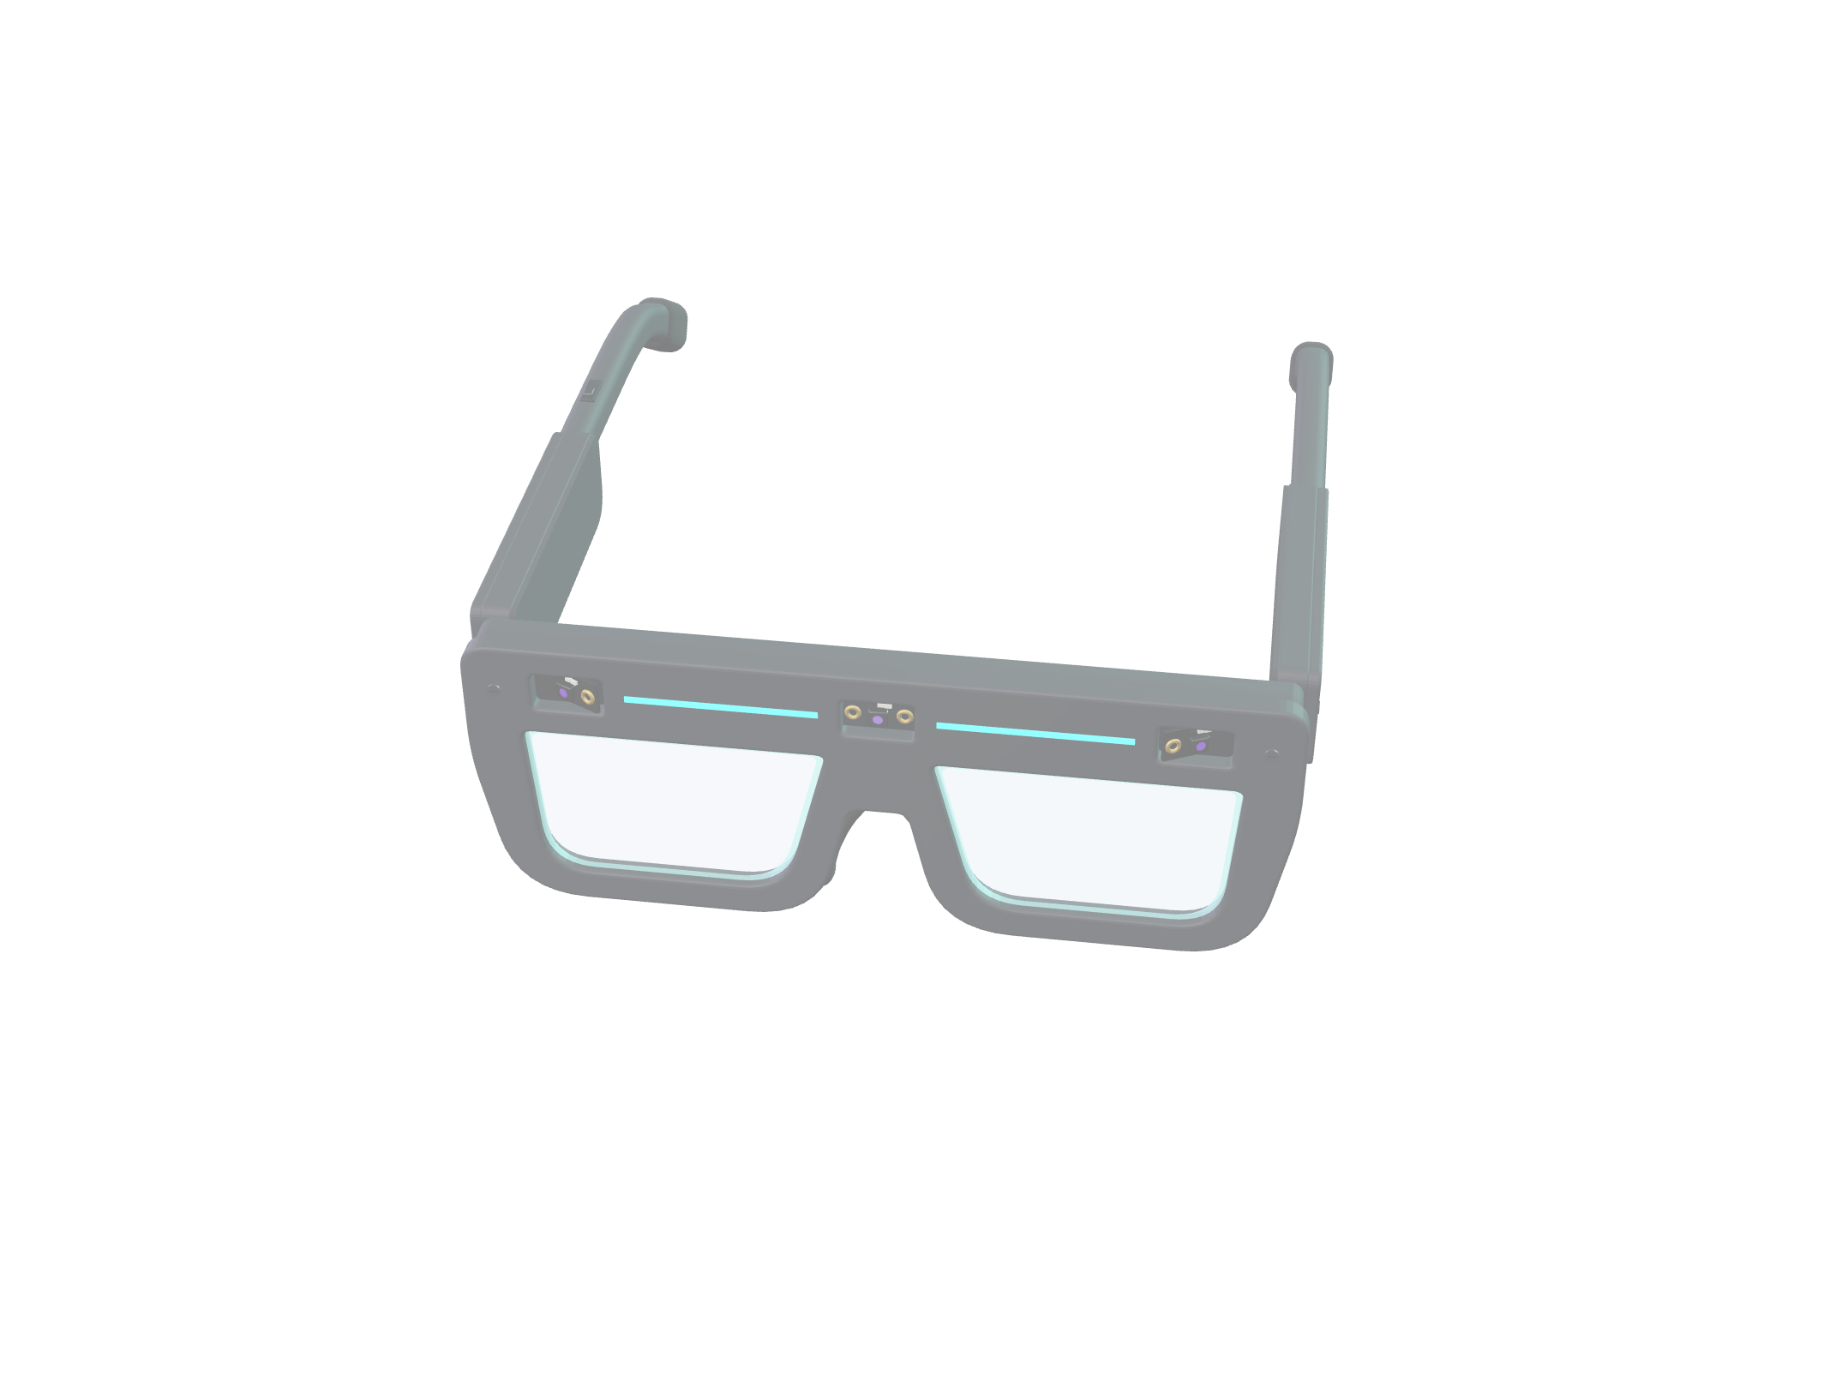
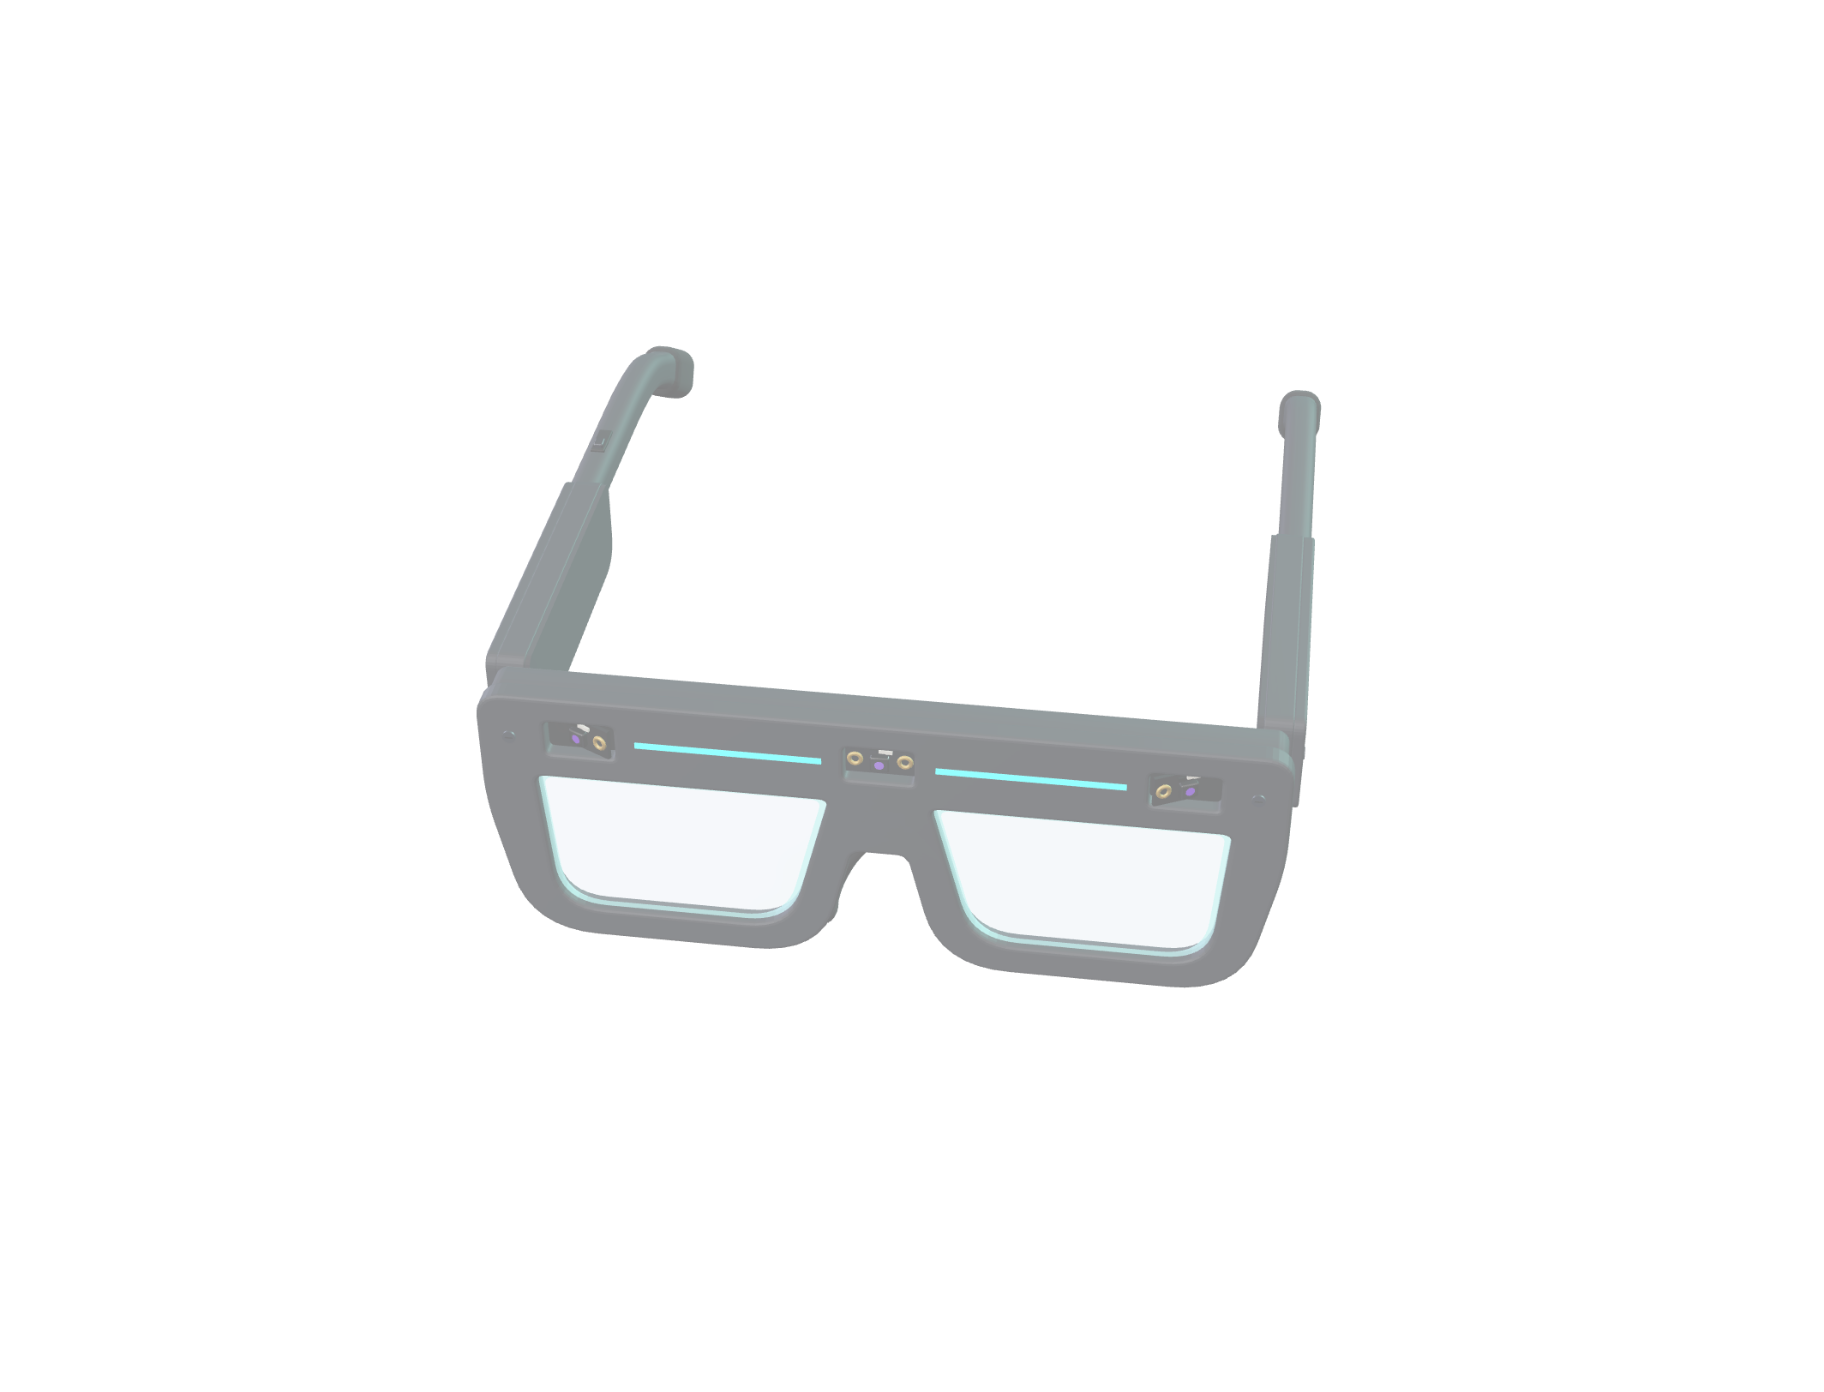
Exploded view: more space, one group at a time, smoother scroll
Parts travel further (covers lift above the boards, lenses and nose pad
drop below, sensors come forward) and come out in staggered windows:
sensors, then boards/battery/charger, then motors. Each label fades in
as its own part arrives; labels get more spacing; the Design track is
longer and the stage eases more gently. Stills regenerated.

Changed region(s): [[0.25, 0.2162, 0.75, 0.7105]]

diff --git a/src/three/deviceConfig.ts b/src/three/deviceConfig.ts
@@ -146,6 +146,8 @@ export interface ExplodeMove {
   stage: Stage;
   direction: V3; // normalised at runtime
   distance: number;
+  /** Optional slice of the stage (0..1) this move uses, so parts come out one group at a time. */
+  window?: [number, number];
 }
 
 export type PartKind =
@@ -208,7 +210,8 @@ function sensorPart(id: string, x: number, yawDeg: number, label: LabelId, side?
     side,
     position: [x, FRAME.barCenterY, FRAME.z + 0.012],
     quaternion: facing(look),
-    explode: [{ stage: "full", direction: [look[0], 0.12, look[2]], distance: 0.42 }],
+    // first out in the full stage: straight forward, a little down, into the space the lenses left
+    explode: [{ stage: "full", direction: [look[0], -0.22, look[2]], distance: 0.55, window: [0, 0.5] }],
     label,
     anchor: [0, 0, 0.018],
   };
@@ -227,7 +230,7 @@ function sideParts(s: Side): PartConfig[] {
       kind: "lens",
       side: s,
       position: [sg * LENS_CENTER[0], LENS_CENTER[1], FRAME.z + FRAME.plateDepth / 2],
-      explode: [{ stage: "half", direction: [sg * 0.14, -0.55, 1], distance: 0.58 }],
+      explode: [{ stage: "half", direction: [sg * 0.12, -0.95, 1], distance: 0.85, window: [0.15, 1] }],
       label: s === "left" ? "lenses" : undefined,
       anchor: [sg * 0.1, -0.09, 0.006],
     },
@@ -250,7 +253,8 @@ function sideParts(s: Side): PartConfig[] {
       kind: "templeCover",
       side: s,
       position: [sg * (TEMPLE.innerX + TEMPLE.wall + TEMPLE.rimDepth + 0.007), BOARD_V, TEMPLE.hingeZ - 0.31],
-      explode: [{ stage: "half", direction: [sg, 0.15, 0], distance: 0.64 }],
+      // covers lift up and out, above the boards, so they stay clear of the label columns
+      explode: [{ stage: "half", direction: [sg * 0.8, 1.2, 0], distance: 0.85, window: [0, 0.75] }],
     },
     {
       id: `earCap${L}`,
@@ -258,7 +262,7 @@ function sideParts(s: Side): PartConfig[] {
       side: s,
       position: p(tip.end.clone().addScaledVector(tip.dir, 0.05)),
       quaternion: facing(tipDir),
-      explode: [{ stage: "half", direction: tipDir, distance: 0.5 }],
+      explode: [{ stage: "half", direction: tipDir, distance: 0.7, window: [0.25, 1] }],
     },
     {
       id: `motor${L}`,
@@ -267,7 +271,7 @@ function sideParts(s: Side): PartConfig[] {
       position: p(tip.end.clone().addScaledVector(tip.dir, 0.065)),
       // the flat face of the coin motor presses towards the head, behind the ear
       quaternion: facing(inward),
-      explode: [{ stage: "full", direction: tipDir, distance: 0.27 }],
+      explode: [{ stage: "full", direction: tipDir, distance: 0.42, window: [0.5, 1] }],
       turn: { stage: "full", faceTo: FACE_UP },
       label: s === "left" ? "motorLeft" : "motorRight",
       anchor: [0, 0, 0.013],
@@ -275,8 +279,8 @@ function sideParts(s: Side): PartConfig[] {
   ];
 }
 
-/** Boards come out sideways, between the temple and its cover. */
-const OUT_UP = (s: Side): V3 => [sideSign(s), 0.3, 0];
+/** Boards come out sideways and up, between the temple and its lifted cover. */
+const OUT_UP = (s: Side): V3 => [sideSign(s), 0.7, 0];
 
 /** Left temple: controller next to the hinge, then the two motor driver boards. */
 const leftTemple: PartConfig[] = [
@@ -286,7 +290,7 @@ const leftTemple: PartConfig[] = [
     side: "left",
     position: inBay("left", 0.145, BOARD_V, 0.004 + 0.006),
     quaternion: facing([1, 0, 0]),
-    explode: [{ stage: "full", direction: OUT_UP("left"), distance: 0.36 }],
+    explode: [{ stage: "full", direction: OUT_UP("left"), distance: 0.5, window: [0.2, 0.7] }],
     turn: { stage: "full", faceTo: FACE_UP },
     label: "controller",
     // front half of the board (local −x points forward on the left side)
@@ -298,7 +302,7 @@ const leftTemple: PartConfig[] = [
     side: "left",
     position: inBay("left", 0.33, BOARD_V, 0.004 + 0.005),
     quaternion: facing([1, 0, 0]),
-    explode: [{ stage: "full", direction: OUT_UP("left"), distance: 0.36 }],
+    explode: [{ stage: "full", direction: OUT_UP("left"), distance: 0.5, window: [0.3, 0.8] }],
     turn: { stage: "full", faceTo: FACE_UP },
   },
   {
@@ -307,7 +311,7 @@ const leftTemple: PartConfig[] = [
     side: "left",
     position: inBay("left", 0.455, BOARD_V, 0.004 + 0.005),
     quaternion: facing([1, 0, 0]),
-    explode: [{ stage: "full", direction: OUT_UP("left"), distance: 0.36 }],
+    explode: [{ stage: "full", direction: OUT_UP("left"), distance: 0.5, window: [0.35, 0.85] }],
     turn: { stage: "full", faceTo: FACE_UP },
     // the label sits on the rear board so its marker stays clear of the controller's
     label: "drivers",
@@ -323,7 +327,7 @@ const rightTemple: PartConfig[] = [
     side: "right",
     position: inBay("right", 0.17, BOARD_V, 0.002 + 0.0175),
     quaternion: facing([-1, 0, 0]),
-    explode: [{ stage: "full", direction: OUT_UP("right"), distance: 0.36 }],
+    explode: [{ stage: "full", direction: OUT_UP("right"), distance: 0.5, window: [0.2, 0.7] }],
     turn: { stage: "full", faceTo: FACE_UP },
     label: "battery",
     // front half of the pouch (local +x points forward on the right side)
@@ -335,7 +339,7 @@ const rightTemple: PartConfig[] = [
     side: "right",
     position: inBay("right", 0.45, BOARD_V, 0.004 + 0.005),
     quaternion: facing([-1, 0, 0]),
-    explode: [{ stage: "full", direction: OUT_UP("right"), distance: 0.36 }],
+    explode: [{ stage: "full", direction: OUT_UP("right"), distance: 0.5, window: [0.3, 0.8] }],
     turn: { stage: "full", faceTo: FACE_UP },
     label: "charger",
     anchor: [-0.02, 0, 0.012],
@@ -366,7 +370,7 @@ export const PARTS: PartConfig[] = [
     id: "nosePad",
     kind: "nosePad",
     position: [0, -0.055, FRAME.z - 0.03],
-    explode: [{ stage: "half", direction: [0, -0.8, 0.6], distance: 0.5 }],
+    explode: [{ stage: "half", direction: [0, -1, 0.55], distance: 0.8, window: [0.2, 1] }],
   },
   sensorPart("sensorFront", 0, 0, "tofFront"),
   ...sideParts("left"),

diff --git a/src/three/PersistentStage.tsx b/src/three/PersistentStage.tsx
@@ -14,7 +14,7 @@ import { Obstacles } from "./effects/Obstacles";
 import { ProblemProps } from "./effects/ProblemProps";
 import { SignalDots } from "./effects/SignalDots";
 import { OrbitRings } from "./effects/OrbitRings";
-import { LABELLED_PARTS } from "./explode";
+import { LABELLED_PARTS, partArrival } from "./explode";
 import { smooth } from "./geometry";
 import { layoutCallouts, projectToScreen, type ScreenAnchor } from "./labelProjection";
 import { FOCUS_PARTS, mix, pageTimeline, type DeviceState, type SectionRange } from "./pageTimeline";
@@ -79,7 +79,7 @@ function placeCamera(camera: THREE.PerspectiveCamera, s: DeviceState, rect: Rect
   const dH = s.size / (2 * tanV * (rect.h / vh) * FILL);
   const dW = s.size / (2 * tanV * (vw / vh) * (rect.w / vw) * FILL);
   // tall, narrow slots (phones): let the widest unlabelled parts touch the edges
-  const d = Math.max(dH, rect.w / rect.h < 0.75 ? dW * 0.8 : dW);
+  const d = Math.max(dH, rect.w / rect.h < 0.75 ? dW * 0.7 : dW);
   target.set(...s.target);
   camera.position.set(
     target.x + Math.sin(s.azimuth) * Math.cos(s.elevation) * d,
@@ -114,6 +114,16 @@ function writeLabels(
   for (const part of LABELLED_PARTS) {
     const g = parts.get(part.id);
     if (!g) continue;
+    // each label fades in as its own part arrives, so the eye follows one group at a time
+    const item = h.items.get(part.label as LabelId);
+    if (item) {
+      const v = smooth((partArrival(part, s.explode) - 0.55) / 0.35).toFixed(3);
+      if (item.label.style.opacity !== v) {
+        item.label.style.opacity = v;
+        item.line.style.opacity = v;
+        item.dot.style.opacity = v;
+      }
+    }
     world.set(...((part.anchor ?? [0, 0, 0]) as [number, number, number]));
     g.localToWorld(world);
     const sp = projectToScreen(world, camera, vw, vh);
@@ -135,7 +145,7 @@ function writeLabels(
     heights.set(a.id, el?.offsetHeight ?? 0);
   }
   const c = projectToScreen(target, camera, vw, vh);
-  const layout = layoutCallouts(anchors, box.w, box.h, c.x - box.x, { gap: 36, margin: 12, top: 28, bottom: 64 }, heights);
+  const layout = layoutCallouts(anchors, box.w, box.h, c.x - box.x, { gap: 46, margin: 12, top: 36, bottom: 76 }, heights, 16);
   for (const a of anchors) {
     const item = h.items.get(a.id);
     const l = layout.get(a.id);
@@ -229,7 +239,7 @@ function Director({ compact, onReady }: { compact: boolean; onReady: () => void 
     const goal = pageTimeline(p, m.ranges, (0.35 * m.vh) / m.max);
     // ease towards the scroll state so fast scrolling still looks smooth
     const prev = live.current;
-    const s = { ...(prev ? mix(prev, goal, 1 - Math.exp(-dt * 9)) : goal), slot: goal.slot };
+    const s = { ...(prev ? mix(prev, goal, 1 - Math.exp(-dt * 6)) : goal), slot: goal.slot };
     live.current = s;
 
     // place the camera so the device sits in the current slot (travelling between slots)

diff --git a/src/three/explode.ts b/src/three/explode.ts
@@ -1,11 +1,25 @@
 import * as THREE from "three";
-import { PARTS, STAGE_WINDOWS, type PartConfig, type Stage } from "./deviceConfig";
+import { PARTS, STAGE_WINDOWS, type ExplodeMove, type PartConfig, type Stage } from "./deviceConfig";
 import { smooth } from "./geometry";
 
 /** 0..1 progress of a stage given the overall explode progress (0 assembled → 1 fully exploded). */
 export function stageProgress(stage: Stage, explode: number): number {
   const [a, b] = STAGE_WINDOWS[stage];
   return smooth((explode - a) / (b - a));
+}
+
+/** 0..1 progress of one move: its stage, narrowed to its optional window (staggered parts). */
+export function moveProgress(m: ExplodeMove, explode: number): number {
+  const [a, b] = STAGE_WINDOWS[m.stage];
+  const raw = Math.min(1, Math.max(0, (explode - a) / (b - a)));
+  if (!m.window) return smooth(raw);
+  return smooth((raw - m.window[0]) / (m.window[1] - m.window[0]));
+}
+
+/** How far a part has travelled along its whole explode path, 0..1 (labels fade in near the end). */
+export function partArrival(p: PartConfig, explode: number): number {
+  if (!p.explode.length) return explode > 0.6 ? 1 : 0;
+  return moveProgress(p.explode[p.explode.length - 1], explode);
 }
 
 const dir = new THREE.Vector3();
@@ -19,7 +33,7 @@ const IDENTITY = new THREE.Quaternion();
 export function explodeOffset(p: PartConfig, explode: number, out = new THREE.Vector3()): THREE.Vector3 {
   out.set(0, 0, 0);
   for (const m of p.explode) {
-    const k = stageProgress(m.stage, explode);
+    const k = moveProgress(m, explode);
     if (k <= 0) continue;
     dir.set(m.direction[0], m.direction[1], m.direction[2]).normalize();
     out.addScaledVector(dir, m.distance * k);

diff --git a/src/three/labelProjection.ts b/src/three/labelProjection.ts
@@ -36,6 +36,8 @@ export function layoutCallouts(
   opts: { gap: number; margin: number; top: number; bottom: number },
   /** Measured label heights; labels that wrap get more room. */
   heights?: Map<LabelId, number>,
+  /** Extra space between neighbouring labels, in px. */
+  padding = 8,
 ) {
   let left = anchors.filter((a) => a.x < centerX);
   let right = anchors.filter((a) => a.x >= centerX);
@@ -52,7 +54,7 @@ export function layoutCallouts(
   const space = (a: ScreenAnchor, b: ScreenAnchor) => {
     const ha = heights?.get(a.id);
     const hb = heights?.get(b.id);
-    return ha && hb ? Math.max(opts.gap, (ha + hb) / 2 + 8) : opts.gap;
+    return ha && hb ? Math.max(opts.gap, (ha + hb) / 2 + padding) : opts.gap;
   };
   const place = (list: ScreenAnchor[]) => {
     const ys = list.map((a) => Math.min(h - opts.bottom, Math.max(opts.top, a.y)));

diff --git a/src/three/pageTimeline.ts b/src/three/pageTimeline.ts
@@ -193,10 +193,11 @@ function design(local: number): DeviceState {
   return state("design", {
     azimuth: 8 * DEG,
     elevation: 36 * DEG,
-    size: 2.2 + 0.85 * smooth(e / 0.6),
-    target: [0, -0.1, 0.24],
+    size: 2.25 + 1.25 * smooth(e / 0.7),
+    // aim lower as the lenses drop away, so the exploded view stays centred in the slot
+    target: [0, -0.42 * smooth(e / 0.6), 0.24 + 0.36 * smooth(e / 0.6)],
     explode: e,
-    labels: smooth((e - 0.55) / 0.3),
+    labels: smooth((e - 0.3) / 0.15),
   });
 }
 

diff --git a/src/components/sections/Design.tsx b/src/components/sections/Design.tsx
@@ -49,7 +49,7 @@ function ScrollExplode() {
   }, []);
 
   return (
-    <div ref={track} className={compact ? "h-[230svh]" : "h-[320svh]"}>
+    <div ref={track} className={compact ? "h-[300svh]" : "h-[420svh]"}>
       <div className="sticky top-[4.5rem] h-[calc(100svh-4.5rem)]">
         <div className="mx-auto h-full max-w-7xl px-2 sm:px-8">
           <StageSlot id="design" className="size-full">
